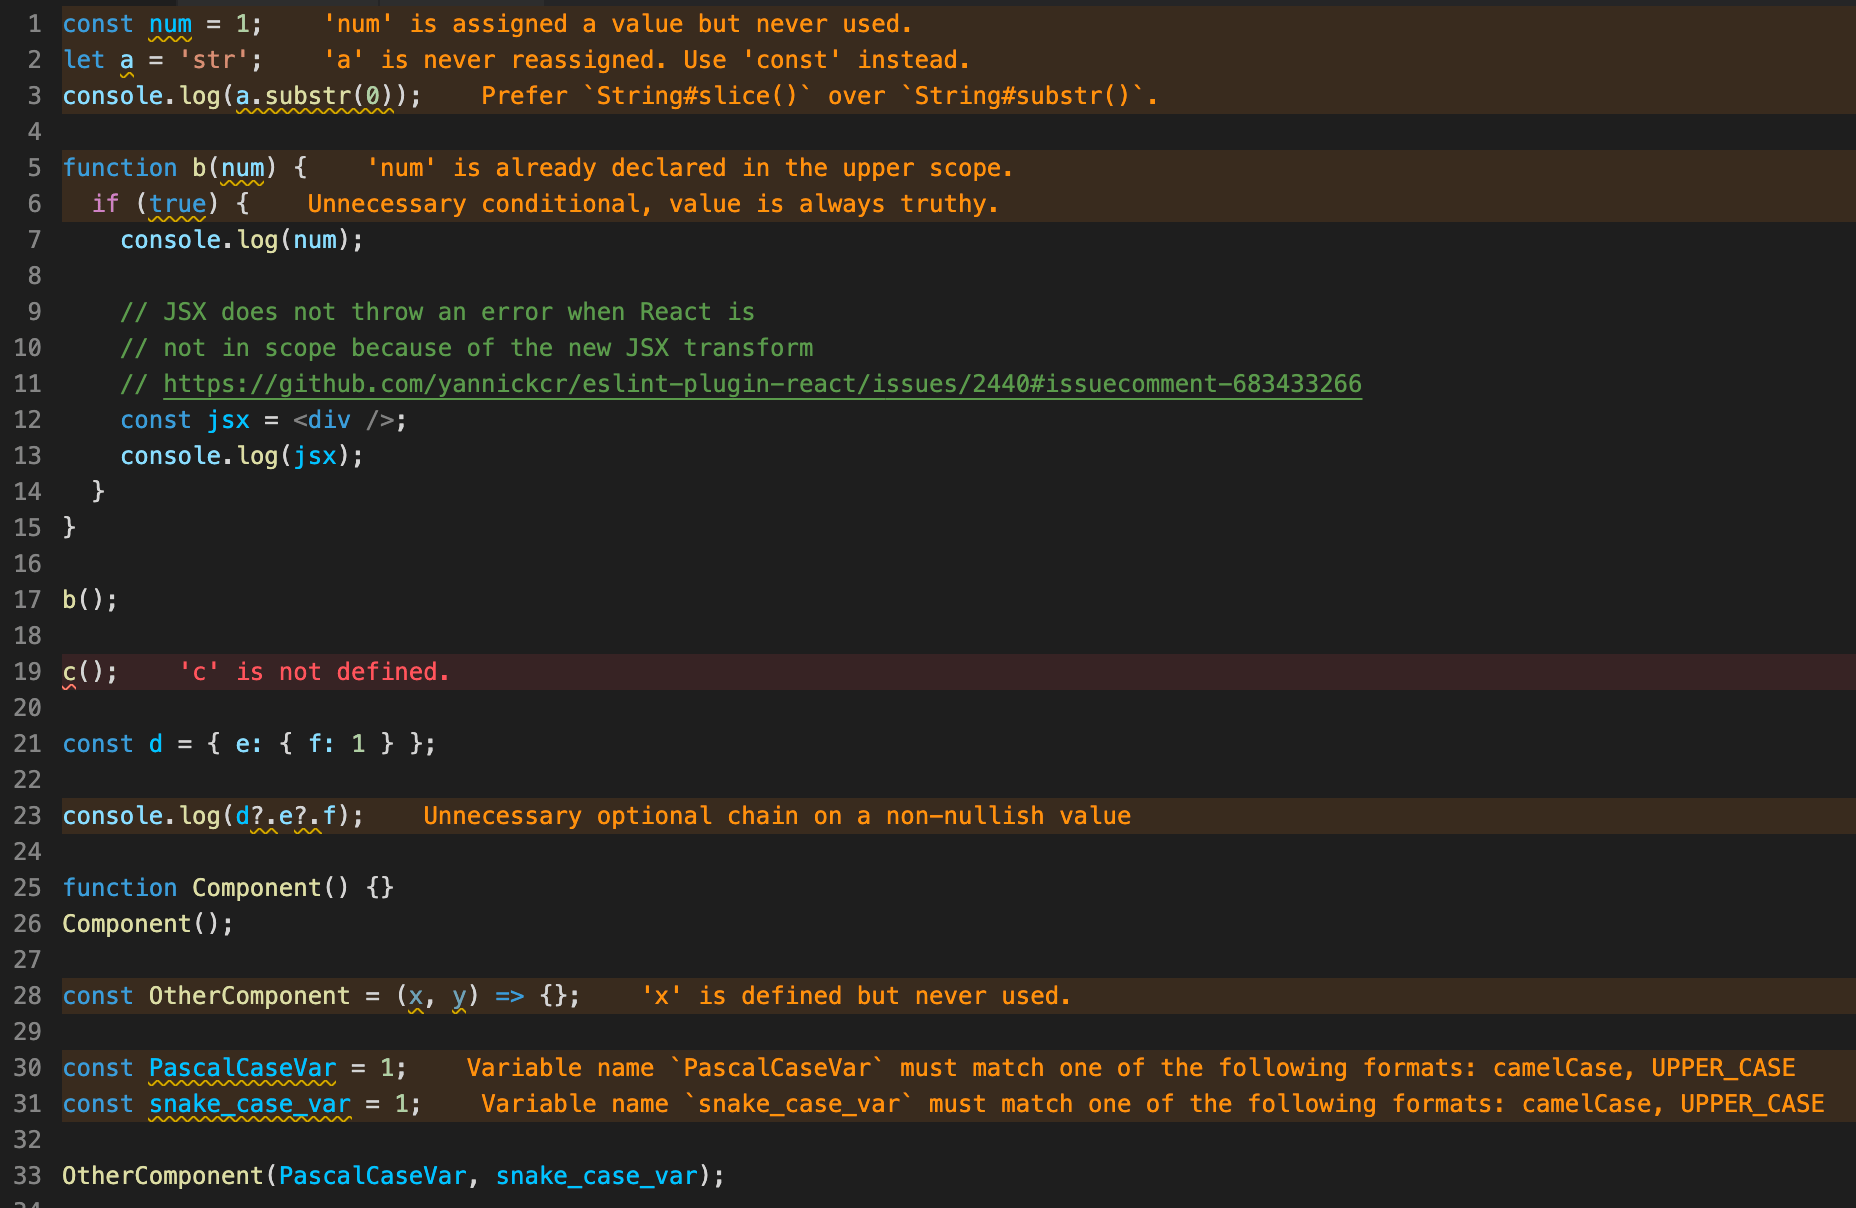
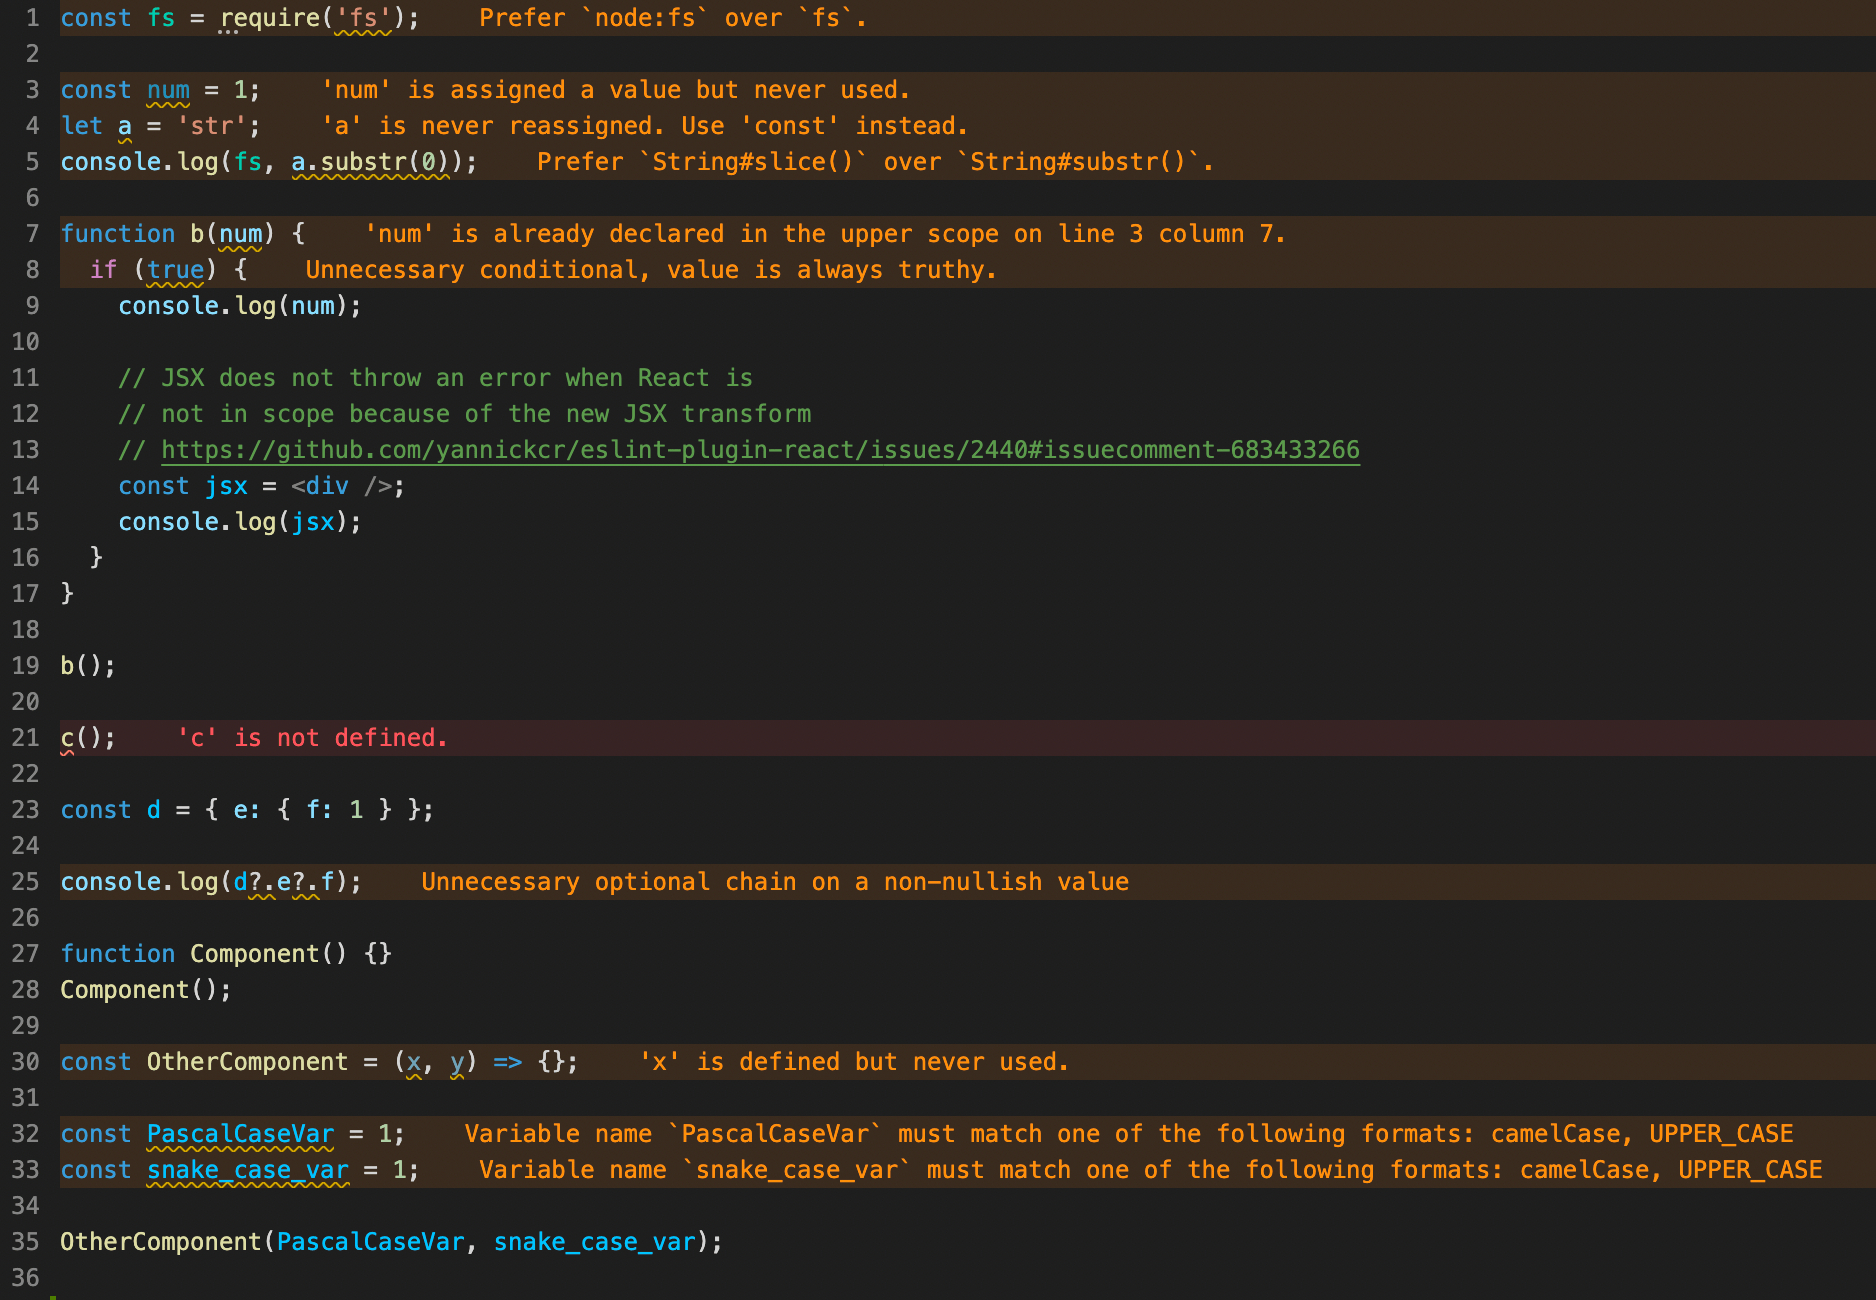
Update tests

Changed region(s): [[0.0, 0.3369, 1.0, 1.0], [0.0, 0.0, 1.0, 0.4288]]

diff --git a/__tests__/index.js b/__tests__/index.js
@@ -1,6 +1,8 @@
+const fs = require('fs');
+
 const num = 1;
 let a = 'str';
-console.log(a.substr(0));
+console.log(fs, a.substr(0));
 
 function b(num) {
   if (true) {

diff --git a/__tests__/.eslintrc.js b/__tests__/.eslintrc.js
@@ -1,3 +1,7 @@
 module.exports = {
   extends: ['@upleveled/upleveled'],
+  parserOptions: {
+    project: './tsconfig.json',
+    tsconfigRootDir: __dirname,
+  },
 };
